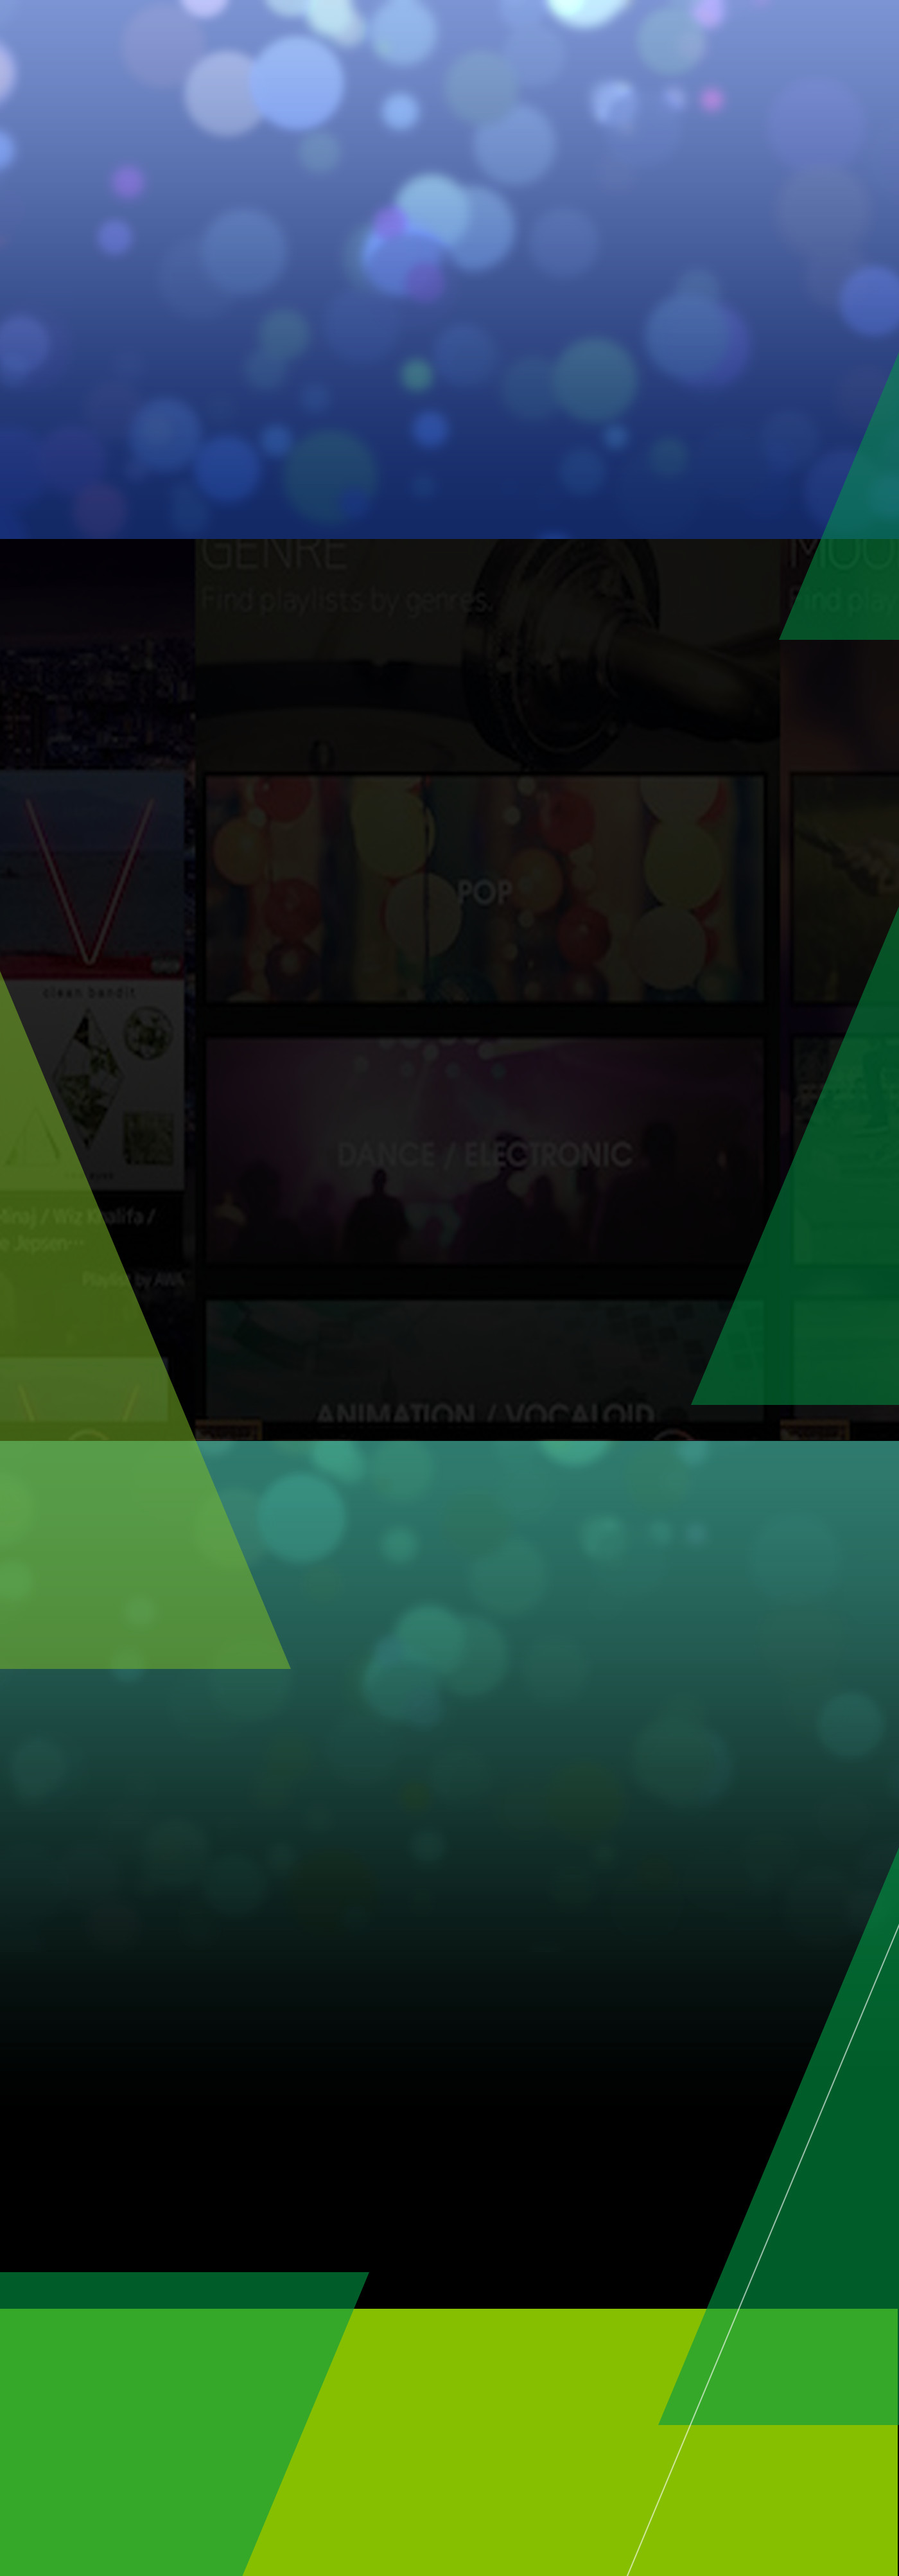
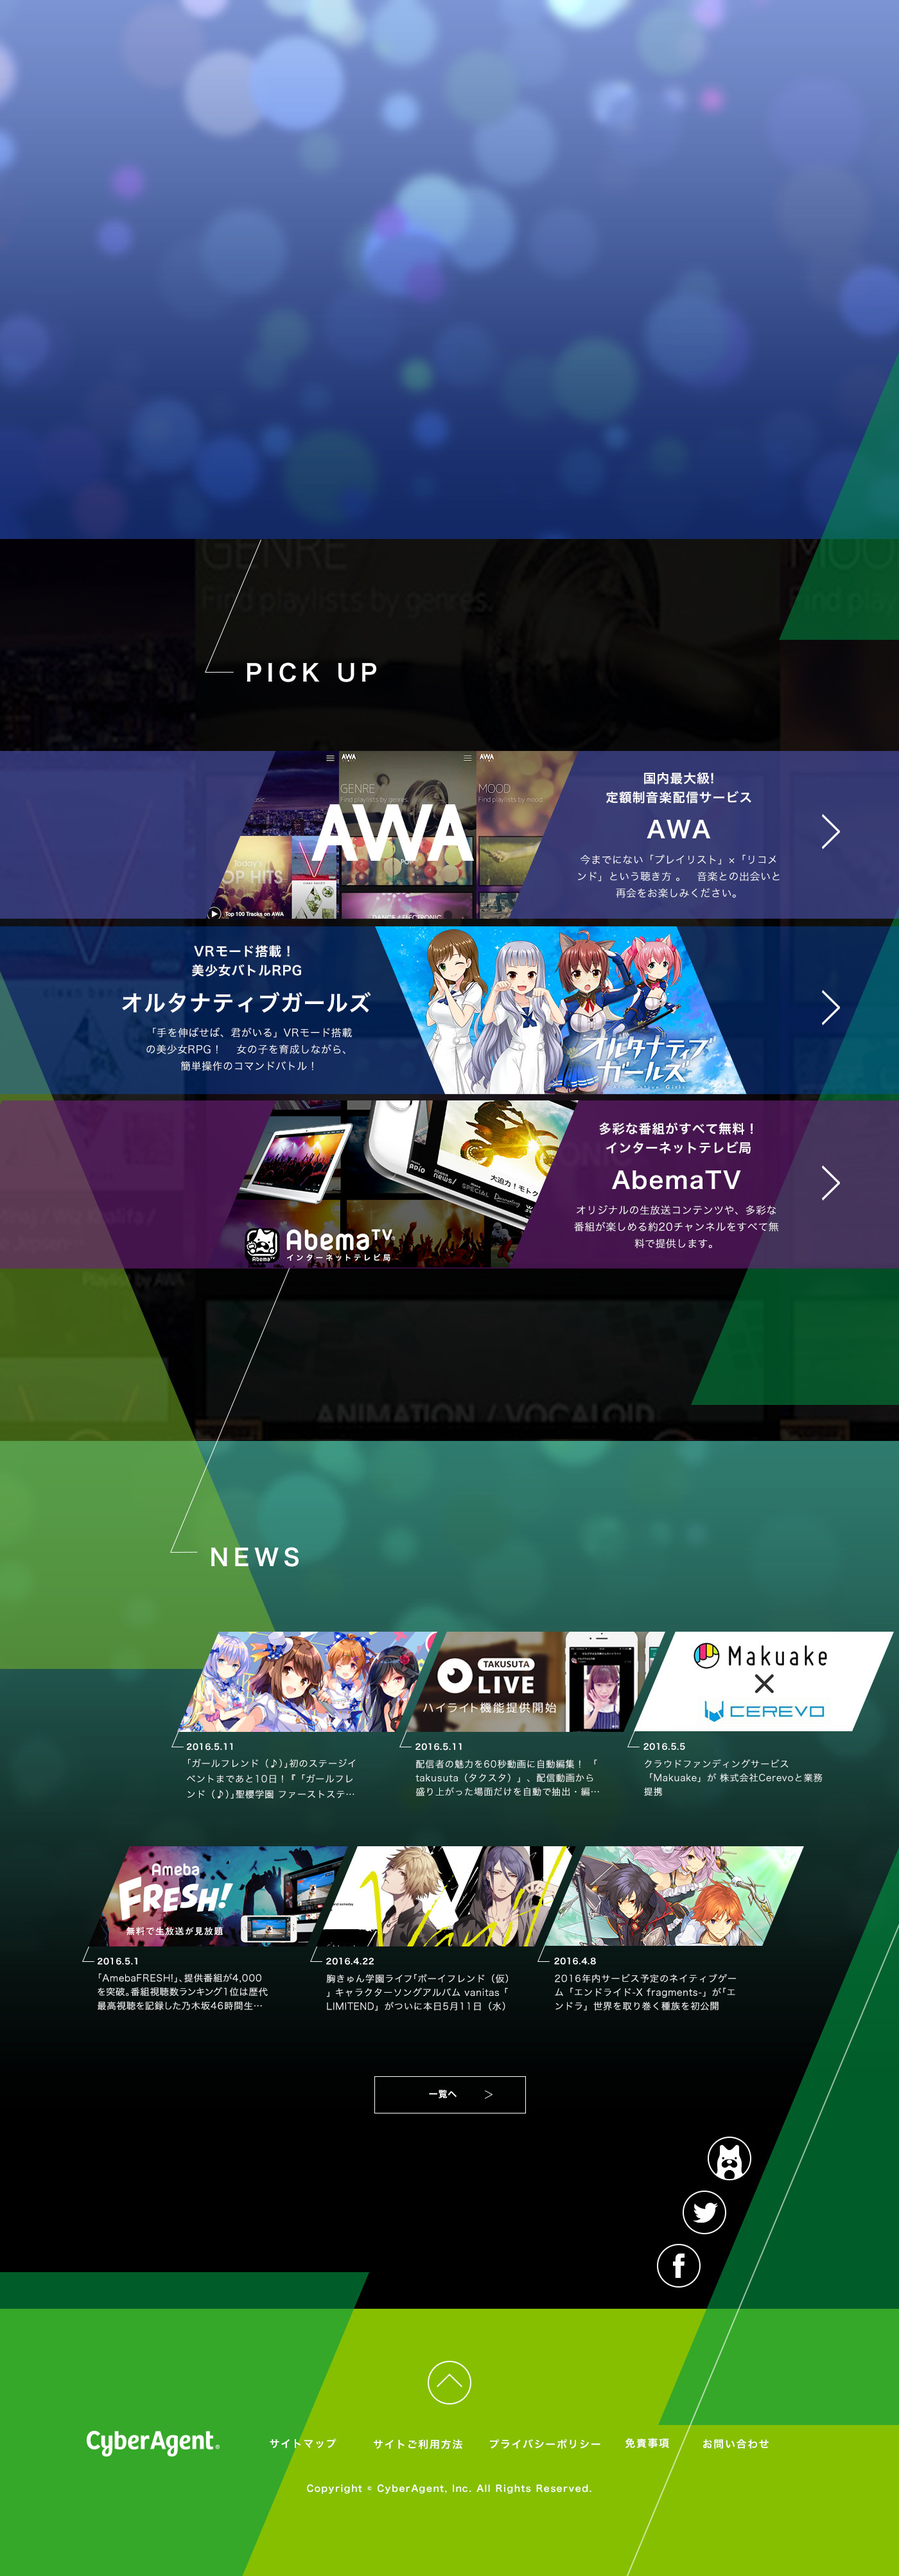
add

diff --git a/caservice/index.html b/caservice/index.html
@@ -26,7 +26,7 @@
       <nav id="gnav">
         <div class="navBorder"></div>
         <ul>
-          <li><a href="#">TOP</a></li>
+          <li><div class="hoverBorder"></div><a href="#">TOP</a></li>
           <li class="service">
             <p><a href="#">SERVICE</a></p>
             <ul class="submenu">
@@ -81,37 +81,37 @@
       <section id="PICKUP">
         <h2>
           <div class="menulogo">
-          <img src="img/title2.png" alt="title2" />
+          <!-- <img src="img/title2.png" alt="title2" /> -->
           </div>
         </h2>
 
           <section class="pickimg awa">
 
-            <img src="img/pick_AWA.png" alt="AWA" />
+            <!-- <img src="img/pick_AWA.png" alt="AWA" /> -->
 
-            <div class="info">
+            <!-- <div class="info">
               <p>国内最大級！</p>
               <p>定額制音楽配信サービス</p>
               <h3>AWA</h3>
               <p>今までにない「プレイリスト」×「リコメンド」という聴き方 。　音楽との出会いと再会をお楽しみください。</p>
-            </div>
+            </div> -->
 
           </section>
 
           <section class="pickimg">
-            <img src="img/pick_org.png" alt="org" />
-            <p>VRモード搭載！</p>
+            <!-- <img src="img/pick_org.png" alt="org" /> -->
+            <!-- <p>VRモード搭載！</p>
             <p>美少女バトルRPG</p>
             <h3>オルタナティブガールズ</h3>
-            <p>手を伸ばせば、君がいる」VRモード搭載の美少女RPG！　 女の子を育成しながら、簡単操作のコマンドバトル！ </p>
+            <p>手を伸ばせば、君がいる」VRモード搭載の美少女RPG！　 女の子を育成しながら、簡単操作のコマンドバトル！ </p> -->
           </section>
 
           <section class="pickimg">
-            <img src="img/pick_TV.png" alt="TV" />
-            <p>多彩な番組がすべて無料！</p>
+            <!-- <img src="img/pick_TV.png" alt="TV" /> -->
+            <!-- <p>多彩な番組がすべて無料！</p>
             <p>インターネットテレビ局</p>
             <h3>AbemaTV</h3>
-            <p>オリジナルの生放送コンテンツや、多彩な番組が楽しめる約20チャンネルをすべて無料で提供します。 </p>
+            <p>オリジナルの生放送コンテンツや、多彩な番組が楽しめる約20チャンネルをすべて無料で提供します。 </p> -->
           </section>
 
       </section>
@@ -121,65 +121,65 @@
 
 
       <section id="NEWS">
-        <img src="img/line3.png" alt="line3" />
+        <!-- <img src="img/line3.png" alt="line3" /> -->
         <h2>NEWS</h2>
 
         <div class="news_box">
-          <img src="img/news_1.png" alt="news1" />
-          <h3>2016.5.11</h3>
+          <!-- <img src="img/news_1.png" alt="news1" /> -->
+          <!-- <h3>2016.5.11</h3>
           <p>
             「ガールフレンド（♪）」初のステージイベントまであと10日！ 『「ガールフレンド（♪）」聖櫻学園 ファーストステ…
-          </p>
+          </p> -->
         </div>
 
         <div class="news_box">
-          <img src="img/news_2.png" alt="news2" />
-          <h3>2016.5.11</h3>
+          <!-- <img src="img/news_2.png" alt="news2" /> -->
+          <!-- <h3>2016.5.11</h3>
           <p>
             配信者の魅力を60秒動画に自動編集！ 「takusuta（タクスタ）」、配信動画から盛り上がった場面だけを自動で抽出・編…
-          </p>
+          </p> -->
         </div>
 
         <div class="news_box">
-          <img src="img/news_3.png" alt="news3" />
-          <h3>2016.5.5</h3>
+          <!-- <img src="img/news_3.png" alt="news3" /> -->
+          <!-- <h3>2016.5.5</h3>
           <p>
             クラウドファンディングサービス 「Makuake」が 株式会社Cerevoと業務提携
-          </p>
+          </p> -->
         </div>
 
         <div class="news_box">
-          <img src="img/news_4.png" alt="news4" />
-          <h3>2016.5.1</h3>
+          <!-- <img src="img/news_4.png" alt="news4" /> -->
+          <!-- <h3>2016.5.1</h3>
           <p>
             「AmebaFRESH!」、提供番組が4,000を突破。番組視聴数ランキング1位は歴代最高視聴を記録した乃木坂46時間生…
-          </p>
+          </p> -->
         </div>
 
         <div class="news_box">
-          <img src="img/news_5.png" alt="news5" />
-          <h3>2016.4.22</h3>
+          <!-- <img src="img/news_5.png" alt="news5" /> -->
+          <!-- <h3>2016.4.22</h3>
           <p>
             胸きゅん学園ライフ「ボーイフレンド（仮）」 キャラクターソングアルバム vanitas 「LIMITEND」がついに本日4月22日…
-          </p>
+          </p> -->
         </div>
 
         <div class="news_box">
-          <img src="img/news_6.png" alt="news6" />
-          <h3>2016.4.8</h3>
+          <!-- <img src="img/news_6.png" alt="news6" /> -->
+          <!-- <h3>2016.4.8</h3>
           <p>
             2016年内サービス予定のネイティブゲーム「エンドライド-X fragments-」が「エンドラ」世界を取り巻く種族を初公開！
-          </p>
+          </p> -->
         </div>
 
-        <img src="img/news_b.png" alt="news_b" />
+        <!-- <img src="img/news_b.png" alt="news_b" /> -->
 
       </section>
 
 
 
       <div>
-        <img src="img/icon.png" alt="icon" />
+        <!-- <img src="img/icon.png" alt="icon" /> -->
 
       </div>
 
@@ -187,12 +187,12 @@
 
       <footer>
 
-        <img src="img/gotop_b.png" alt="gotop" />
+        <!-- <img src="img/gotop_b.png" alt="gotop" /> -->
 
 
-        <img src="img/logo_f.png" alt="footerlogo" />
+        <!-- <img src="img/logo_f.png" alt="footerlogo" /> -->
 
-        <nav id="footernav">
+        <!-- <nav id="footernav">
           <ul>
             <li><a href="#">サイトマップ</a></li>
             <li><a href="#">サイトご利用方法</a></li>
@@ -200,11 +200,11 @@
             <li><a href="#">免責事項</a></li>
             <li><a href="#">お問い合わせ</a></li>
           </ul>
-        </nav>
+        </nav> -->
 
-          <p>
+          <!-- <p>
             Copyright © CyberAgent, Inc. All Rights Reserved.
-          </p>
+          </p> -->
 
       </footer>
 

diff --git a/caservice/css/style.css b/caservice/css/style.css
@@ -60,7 +60,7 @@ a:hover{
 
 #bgwrap {
   background: url(../img/background.jpg) no-repeat;
-  height: 4000px;
+  height: 4810px;
 }
 
 header {
@@ -80,6 +80,7 @@ header {
 position: fixed;
 
 }
+
 
 .navBorder {
   background-color: #fff;
@@ -103,13 +104,40 @@ position: fixed;
   top: 76px;
 }
 
+#gnav li{
+  position: relative;
+}
+
+
 #gnav li:nth-child(2){
   text-indent: -16px;
 }
 #gnav li:nth-child(3){
   text-indent: -32px;
 }
+#gnav li:nth-child(4){
+  text-indent: -48px;
+}
 
+.service li:nth-child(2){
+  text-indent: -48px;
+}
+
+.hoverBorder {
+ width: 147px;
+ height: 30px;
+ background-color: #7fbe25;
+ transform: skew(-25deg);
+ opacity:0;
+ position:absolute;
+ bottom:0;
+ left:-10px;
+ z-index: 50;
+}
+
+.hoverBorder:hover {
+ opacity: 1;
+}
 
 
 #gnav li a{
@@ -179,15 +207,15 @@ z-index: 200;
   position: relative;
 }
 
-.pickimg{
+/*.pickimg{
   width: 100%;
   height: 261px;
   display: flex;
 
-}
-.awa{
+}*/
+/*.awa{
 background: rgba(73, 80, 170, 0.65);
-}
+}*/
 
 .info{
   width:
